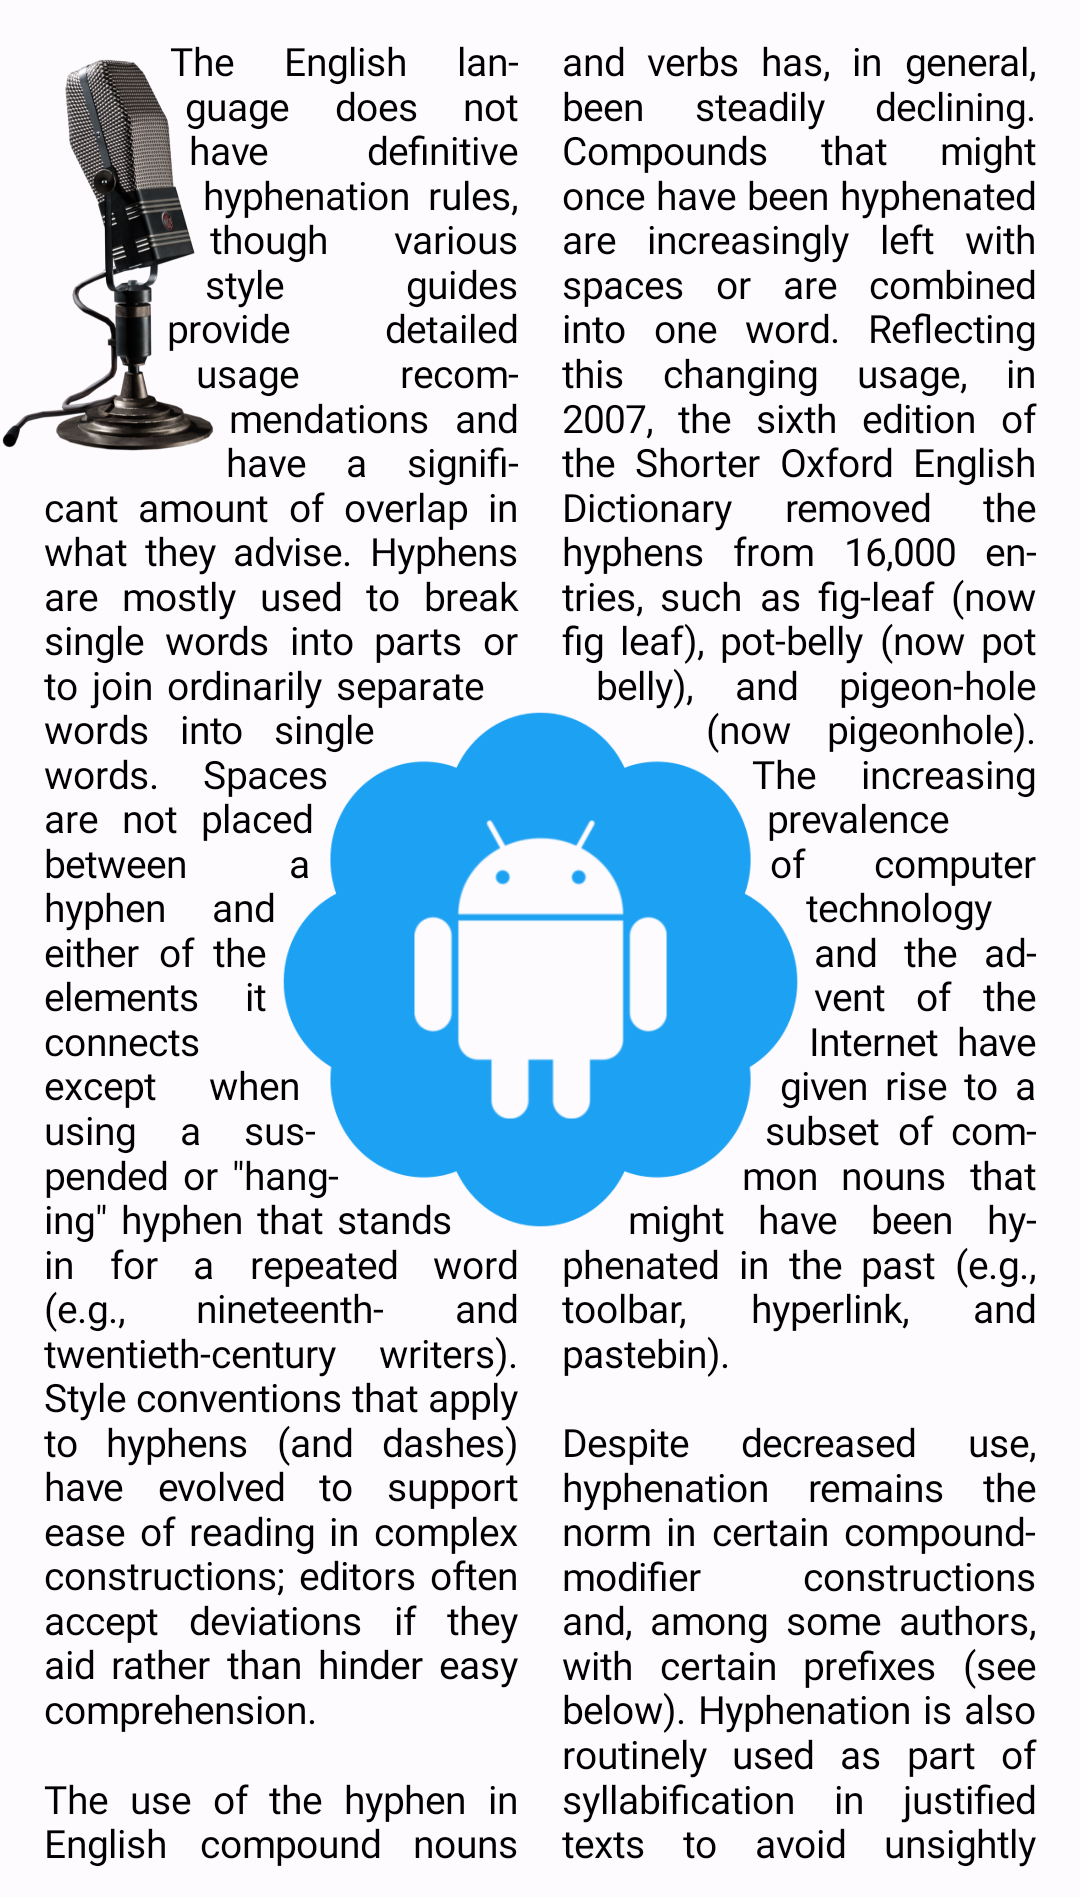
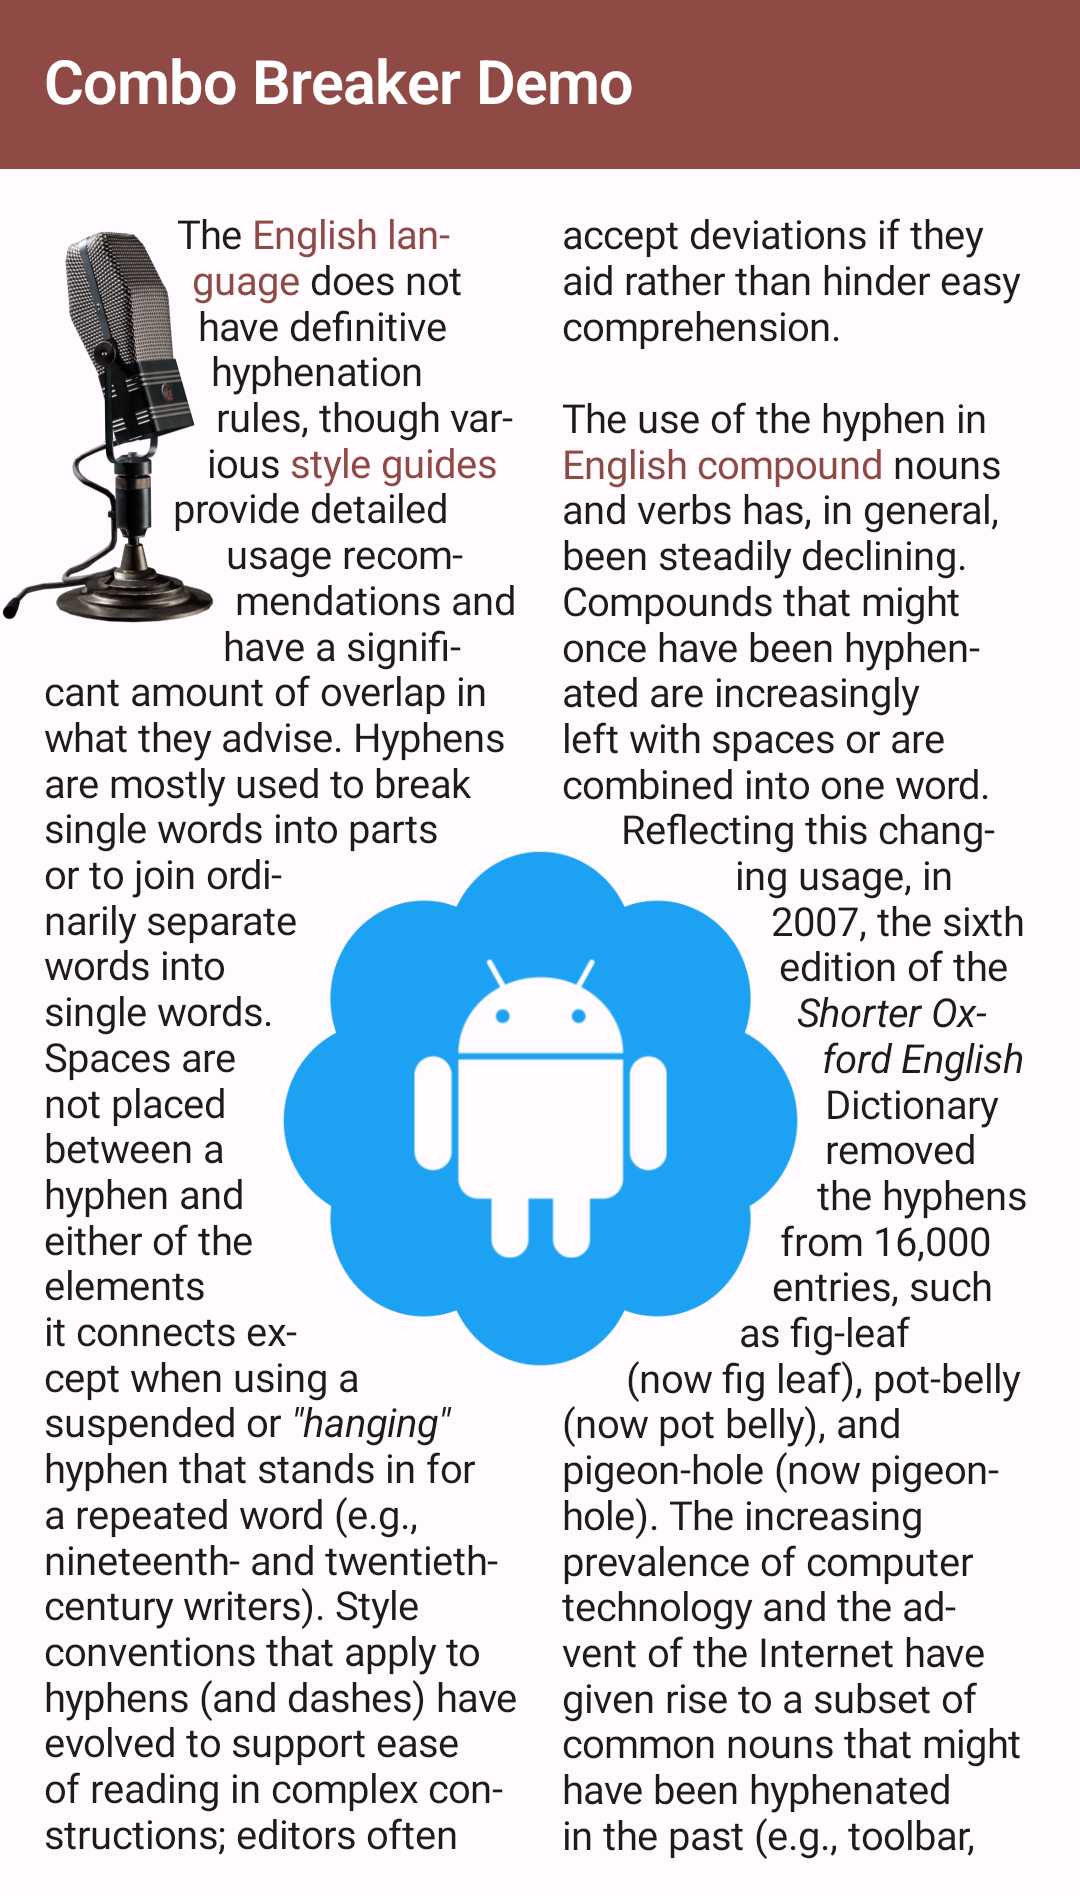
Update README with more info

diff --git a/combo-breaker-demo/src/main/java/dev/romainguy/text/combobreaker/demo/ComboBreakerActivity.kt b/combo-breaker-demo/src/main/java/dev/romainguy/text/combobreaker/demo/ComboBreakerActivity.kt
@@ -89,7 +89,8 @@ class ComboBreakerActivity : ComponentActivity() {
                 withStyle(SpanStyle(fontWeight = FontWeight.Bold, fontSize = 24.sp)) {
                     append("he Hyphen")
                 }
-                append("\n\nThe ")
+                append("\n\n")
+                append("The ")
                 withStyle(style = SpanStyle(color = colorScheme.primary)) {
                     append("English language ")
                 }
@@ -126,7 +127,13 @@ class ComboBreakerActivity : ComponentActivity() {
                 append("leaf), pot-belly (now pot belly), and pigeon-hole (now pigeonhole). The ")
                 append("increasing prevalence of computer technology and the advent of the Internet ")
                 append("have given rise to a subset of common nouns that might have been hyphenated ")
-                append("in the past (e.g., toolbar, hyperlink, and pastebin).")
+                append("in the past (e.g., toolbar, hyperlink, and pastebin).\n\n")
+
+                append("Despite decreased use, hyphenation remains the norm in certain ")
+                append("compound-modifier constructions and, among some authors, with certain ")
+                append("prefixes (see below). Hyphenation is also routinely used as part of ")
+                append("syllabification in justified texts to avoid unsightly spacing (especially ")
+                append("in columns with narrow line lengths, as when used with newspapers).")
             }
         }
         //endregion

diff --git a/README.md b/README.md
@@ -7,7 +7,20 @@ Composable widget for Jetpack Compose that allows to flow text around arbitrary 
 multiple columns. The `TextFlow` composable behaves as a `Box` layout and will automatically
 flow the text content around its children.
 
-For instance, the following code:
+## Features
+
+- Multi-column layout
+- Styled strings (`AnnotatedString`)
+- Default rectangular shapes
+- Arbitrary shapes (any `Path`)
+- Justification
+- Hyphenation
+- Generate shapes from images
+- Compatible with API 29+
+
+## Examples
+
+The following code defines two images to flow text around:
 
 ```kotlin
 TextFlow(
@@ -32,14 +45,12 @@ TextFlow(
 }
 ```
 
-will produce this result:
-
 ![Flow around rectangular shapes](art/screenshot_default_shapes.png)
 
-As you can see, any child of `TextFlow` allows text to flow around a rectangular shape of the same
-dimensions of the child. The `flowShape` modifier is used to control where text flows around the
-shape (to the right/end of the T) and around both the left and right sides of the landscape photo
-(default behavior). In addition, you can define a margin around the shape.
+Any child of `TextFlow` allows text to flow around a rectangular shape of the same dimensions of the
+child. The `flowShape` modifier is used to control where text flows around the shape (to the
+right/end of the T) and around both the left and right sides of the landscape photo (default
+behavior). In addition, you can define a margin around the shape.
 
 The `flowShape` modifier also lets you specify a specific shape instead of a default rectangle.
 This can be done by passing a `Path` or a lambda that returns a `Path`. The lambda alternative
@@ -80,7 +91,10 @@ bitmap and used as the flow shape for the desired child:
 
 ![Flow around non-rectangular shapes](art/screenshot_arbitrary_shapes.png)
 
-Combo Breaker is compatible with API 29+.
+`TextFlow` supports multiple text styles and lets you control justification and hyphenation. In
+the example below, both justification and hyphenation are enabled:
+
+![Justification and hyphenation](art/screenshot_styles_and_justification.png)
 
 ## Maven
 
